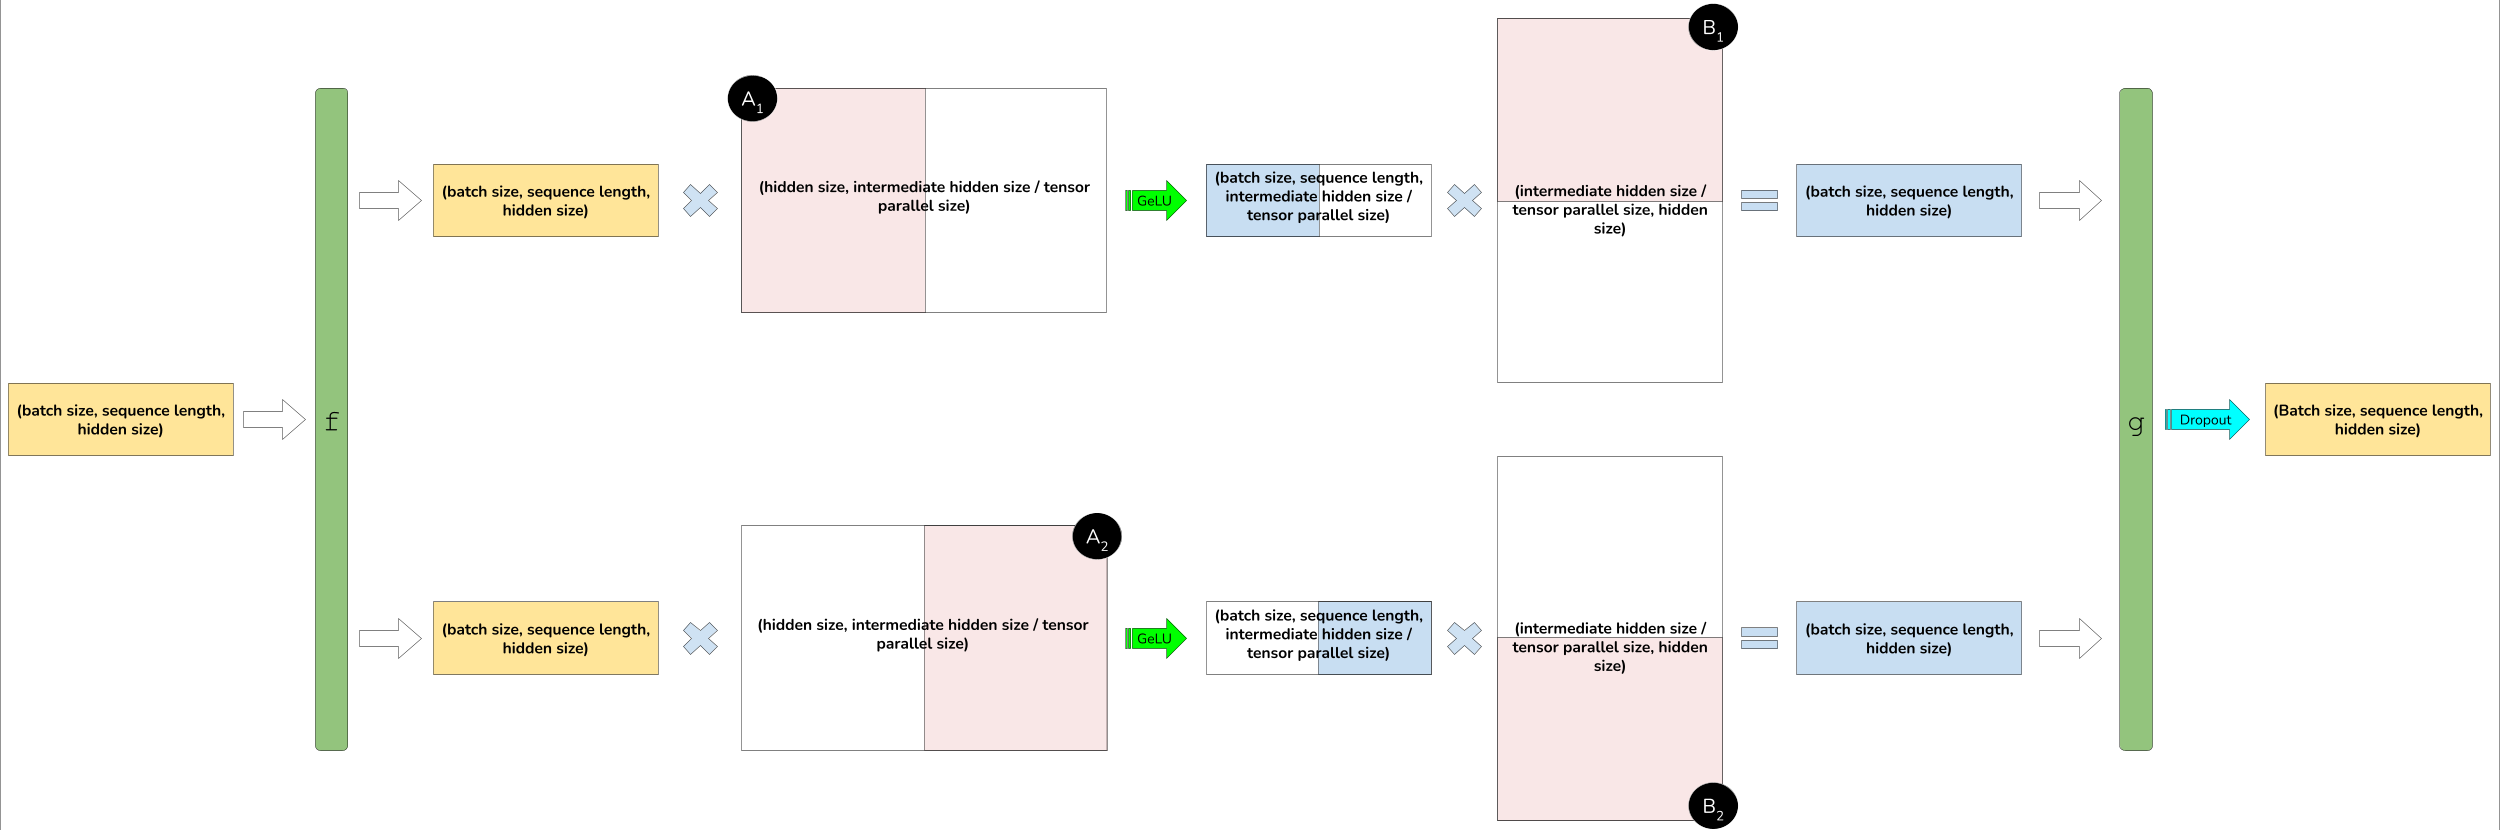
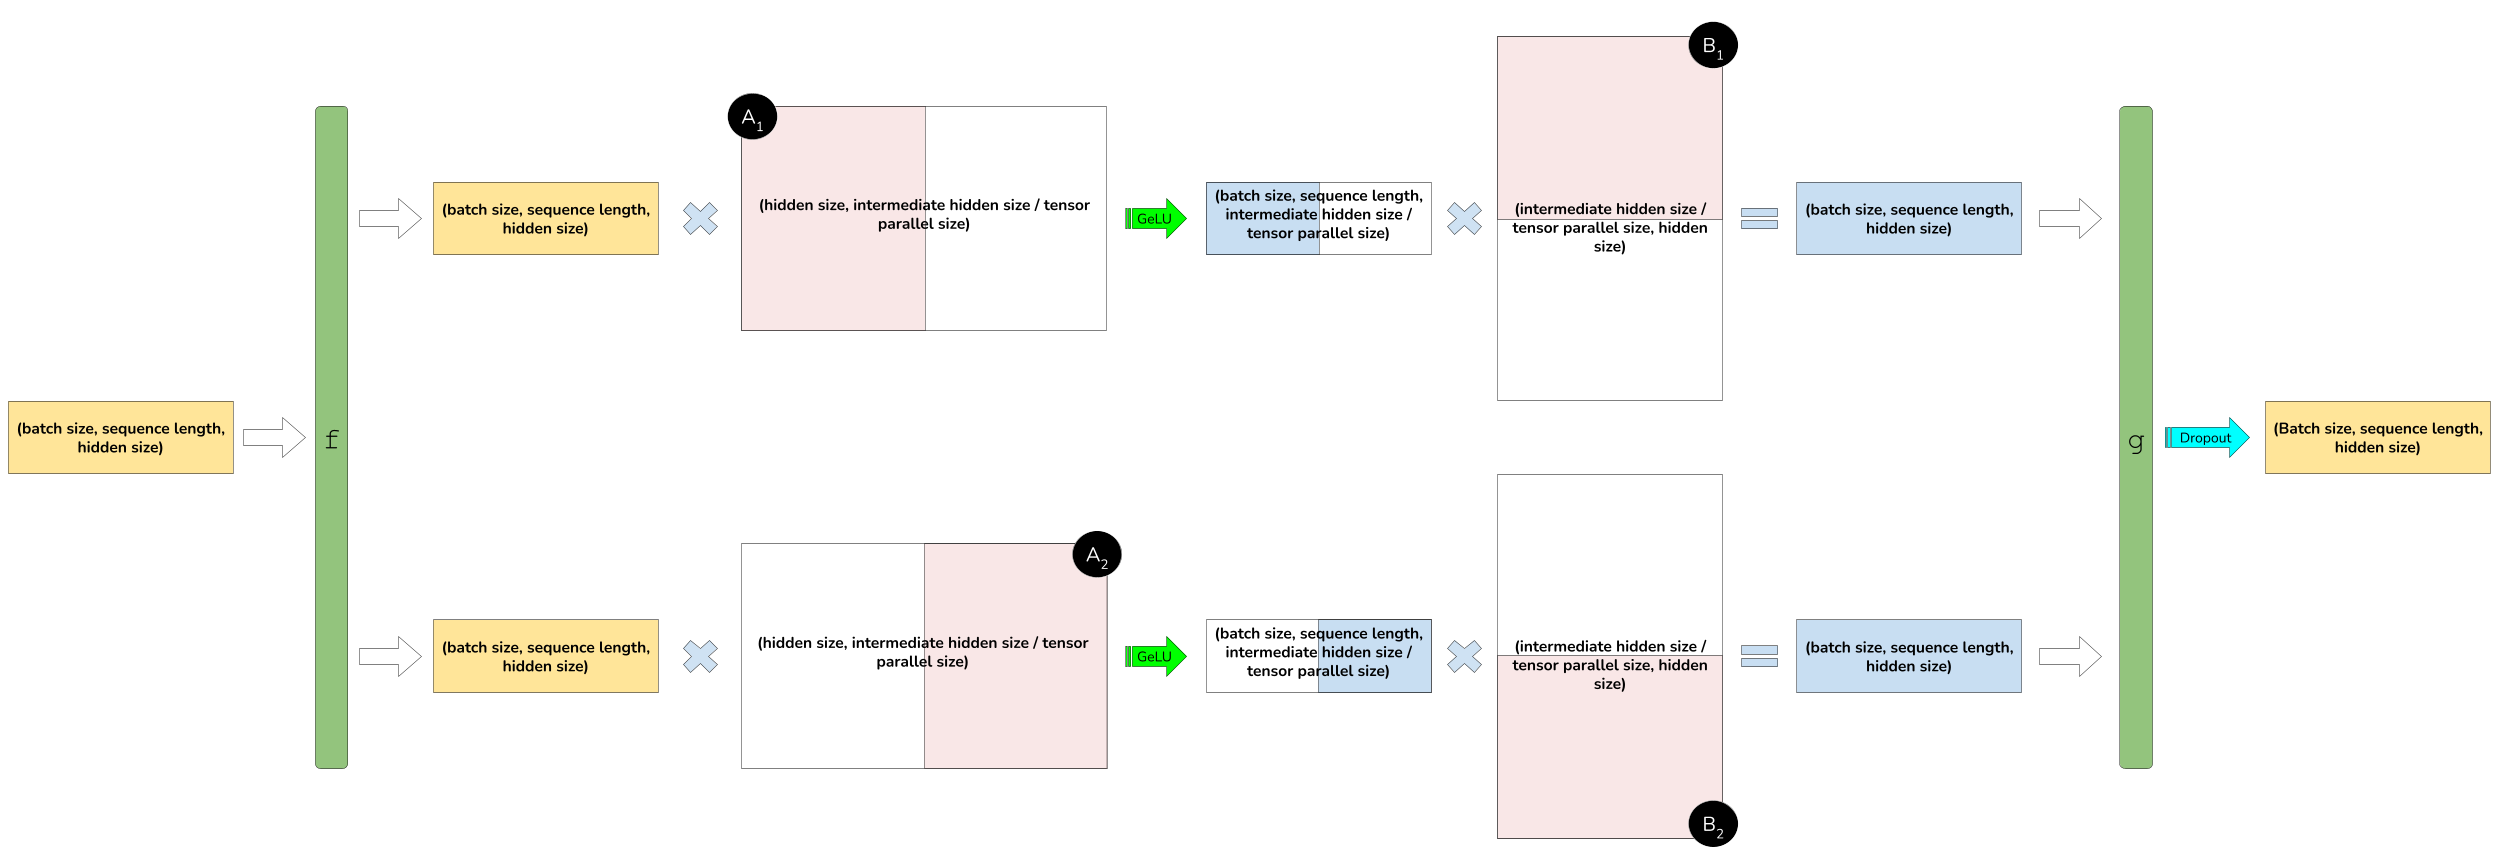
.

diff --git a/content/post/3d-parallelism/index.md b/content/post/3d-parallelism/index.md
@@ -53,7 +53,7 @@ image:
 
 Those times when it was possible to fit an entire model on a single GPU are long gone. Although in recent years we have seen VRAM on GPUs reach up to 120GB, this is still not enough to accommodate state-of-the-art models that require dozens of these GPUs. This is why techniques have emerged to deal with these immense models, capable of leveraging large infrastructures by dividing the work among thousands of GPUs.
 
-For the training of these models, there are mainly two approaches:
+For training such large models, there are mainly two approaches:
 - **[FSDP](https://pytorch.org/docs/stable/fsdp.html#torch.distributed.fsdp.FullyShardedDataParallel)** (PyTorch) & **[DeepSpeed](https://github.com/microsoft/DeepSpeed)** (Microsoft). These strategies shard the model layers across several devices. In order to solve the problem of the pipeline bubble (we will expand on this in [Section 3](#pp)), each device acts as an independent data parallel group, which leads to an increase in communications. This is not a problem when conducting experiments on a single node since communications are very fast, but when using multiple nodes, the performance decreases significantly. How much it decreases depends on the networking of the cluster, but generally, it is not fast enough compared to the speed at which GPUs process the data.
 
   > 🚨 There are several scaling studies of these strategies. It is important to pay attention to the networking and hardware they report and compare it with that of your cluster (with [this nccl test](https://github.com/TJ-Solergibert/MN5-Distributed-PyTorch?tab=readme-ov-file#nccl-network-benchmark), for example) to predict the performance of this strategy.
@@ -72,7 +72,7 @@ During training, we will carry out communications in the three axes of paralleli
 
 The axis that requires the most interconnection bandwidth is the tensor Parallel one (we will delve into this issue in [Section 4](#tp)). Therefore, we will always place the processes of the same tensor Parallel Group on the same node, so we will never use a TP size greater than the number of GPUs per node (Section 3.2 of [[2]](https://arxiv.org/pdf/2104.04473)). If we are unable to fit the model in a single node using tensor parallelism, we will need to divide the model across multiple nodes in the pipeline parallel dimension. The pipeline parallel size will be the smallest possible that allows us to accommodate a copy of the model, and we will use the remaining GPUs to create different copies in the data parallel dimension (Section 5.4.2 of [[2]](https://arxiv.org/pdf/2104.04473)).
 
-In Nanotron⚡, we will first set the different sizes of each parallelism in the YAML config file (`parallelism.[tp, pp, dp]`). Then, during the initialization of the `DistributedTrainer`, we will create a [`ParallelContext`](https://github.com/huggingface/nanotron/blob/67716392ab774a863f1c2f8f73e9571b81ad80a0/src/nanotron/parallel/context.py#L12). This object will be responsible for creating and storing all the `ProcessGroups`, allowing us to access them easily and in an organized manner. Below, we show how to create a `ParallelContext` and how to use it with torch's distributed communication package.
+In Nanotron⚡, we will first set the different sizes of each parallelism in the YAML config file (`parallelism.[tp, pp, dp]`). Then, during the initialization of the `DistributedTrainer`, we will create a [`ParallelContext`](https://github.com/huggingface/nanotron/blob/67716392ab774a863f1c2f8f73e9571b81ad80a0/src/nanotron/parallel/context.py#L12). This object will be responsible for creating and storing all the `ProcessGroups`, allowing us to access them easily and in an organized way. Below, we show how to create a `ParallelContext` and how to use it with torch's distributed communication package.
 
 ```python
 """
@@ -191,8 +191,8 @@ Tensor parallelism splits the parameters as follows:
 
     Hence, we partition the first GEMM in this column parallel fashion and split the second GEMM (`B`) along its rows so it takes the output of the GeLU layer directly without requiring any communication. The output of the second GEMM is then reduced across the tensor parallel group before passing the output to the dropout layer. This approach splits both GEMMs in the MLP block across GPUs and requires only a single all-reduce operation in the forward pass and another all-reduce in the backward pass.
 
-    <img src="img/tp_mlp.png">
-    <em>Tensor parallelism shards the layers by columns (A) and rows (B) among several devices; in this case, tensor parallel size equals 2. <b>f</b> is an identity operator in the forward pass and all reduce in the backward pass while <b>g</b> is an all reduce in the forward pass and identity in the backward pass.</em>
+<img src="img/tp_mlp.png">
+<em>Tensor parallelism shards the layers by columns (A) and rows (B) among several devices; in this case, tensor parallel size equals 2. <b>f</b> is an identity operator in the forward pass and all reduce in the backward pass while <b>g</b> is an all reduce in the forward pass and identity in the backward pass.</em>
 
 - Self-attention block: Similarly to the MLP block, in this block we will divide the `Q`, `K` & `V` matrices along their columns and parallelize the second GEMM (`B`) along its rows. As in the previous case, we perform the operations in this order to reduce synchronizations and respect nonlinear functions. This approach also requires only a single all-reduce operation in the forward pass and a single all-reduce in the backward pass.
     <img src="img/selfattention.png">
